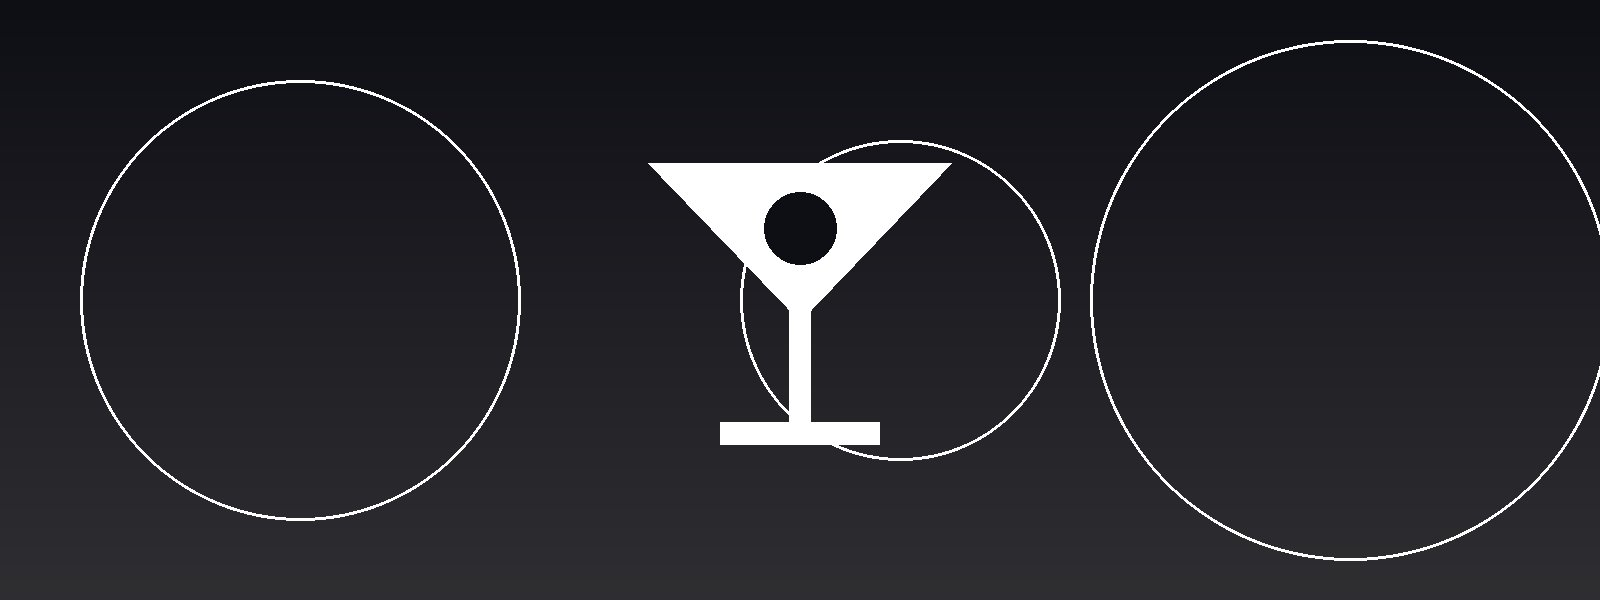
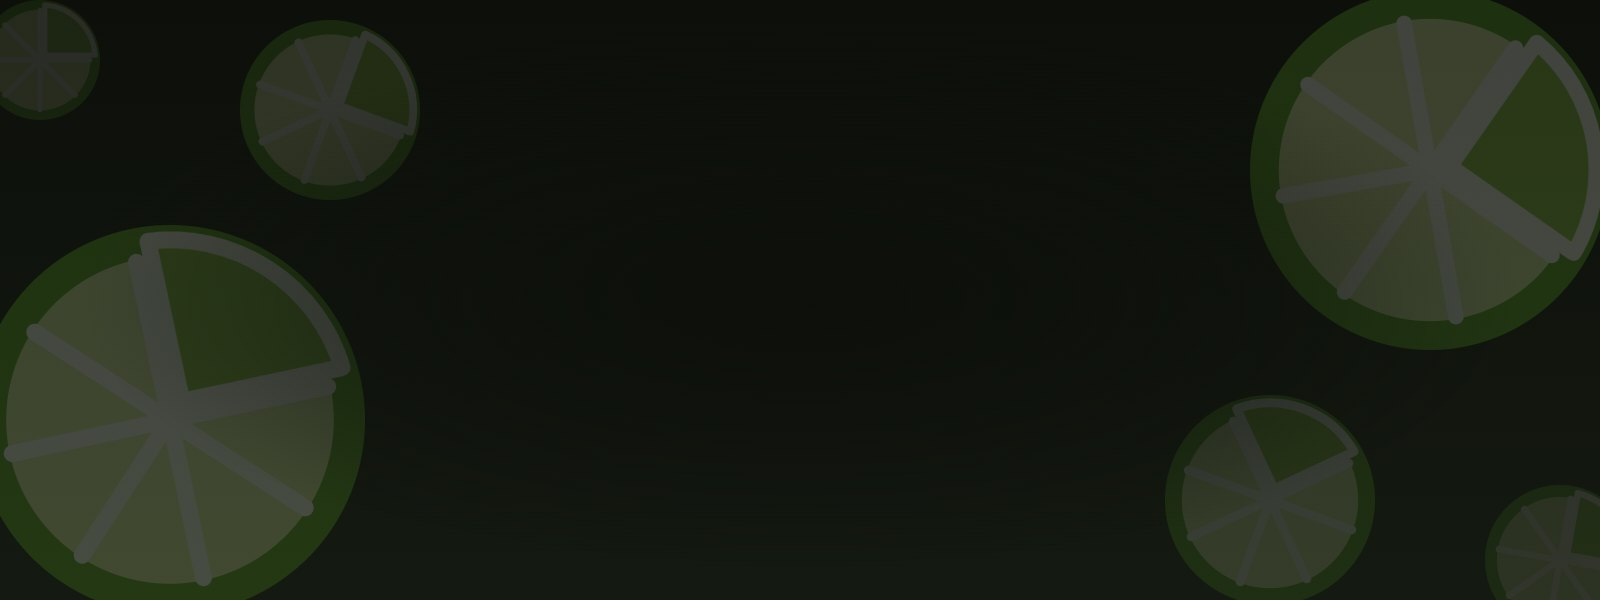
feat: il marchio LIME nel menu laterale, in alto il locale; testata della demo; caricamenti rifiutati in chiaro (REQ-UI-035, REQ-FLOTTA-033, REQ-SIC-006)
- Daniele, 17/11/2026: il marchio LIME sta in cima al menu laterale del
  gestionale, al posto di «Gestionale»; in alto nelle pagine tornano logo
  e nome del locale. Solo la demo e i locali Free hanno in alto il marchio
  LIME (marchioDelProdottoInAlto).
- La testata del menù della demo: il fondo di Lime con le fette di lime,
  al posto del bicchiere grigio. Tocca solo la demo.
- Un caricamento rifiutato dalle regole di Storage (il ruolo IAM appena
  dato impiega qualche minuto a valere) dice di riprovare, invece del
  codice di Firebase.

diff --git a/src/App.jsx b/src/App.jsx
@@ -91,6 +91,7 @@ import { subscribeUpdateAvailable } from './lib/appVersion.js'
 import { cosaFareAllAvvio, versioneVista, segnaVersioneVista } from './lib/novita.js'
 import { leggiAvvisi, avvisoAttivo } from './lib/preferenzeNotifiche.js'
 import { titoloPagina, nelGestionale } from './lib/sezioni.js'
+import { marchioDelProdottoInAlto } from './lib/limiti.js'
 import { subscribeSottosezioni } from './lib/sottosezioni.js'
 import Tendina from './components/Tendina.jsx'
 import { recordNotif } from './lib/notifyStore.js'
@@ -116,8 +117,8 @@ const BUILD = typeof __BUILD_ID__ !== 'undefined' ? __BUILD_ID__ : ''
 export default function App() {
   const location = useLocation()
   const onBackoffice = location.pathname.startsWith('/bar')
-  // Il gestionale intero (coda, conto, profilo di chi lavora): lì in alto il
-  // marchio del prodotto, che riporta alla coda (REQ-UI-035).
+  // Il gestionale intero (coda, conto, profilo di chi lavora): lì il logo in
+  // alto riporta alla coda.
   const gestionale = nelGestionale(location.pathname)
   const { user, profile } = useCustomer()
   const hasOrders = useHasOrders()
@@ -408,6 +409,7 @@ export default function App() {
   // l'effetto qui sotto riscrive il manifest, e non deve farlo a ogni
   // disegno.
   const venue = useMemo(() => venueDi(settings), [settings])
+  const marchioInAlto = marchioDelProdottoInAlto(settings)
   const social = useMemo(() => socialDelLocale(venue), [venue])
   // Il tema delle icone, ricalcolato solo quando cambia davvero: è il
   // valore del contesto che leggono centinaia di <Icona> (memo), e un
@@ -662,22 +664,18 @@ export default function App() {
             ←
           </button>
         )}
-        {/* Nel gestionale il marchio è quello del prodotto, LIME -
-            SmartOrders, e porta alla coda; le pagine dei clienti restano del
-            locale e portano alla sua home (REQ-UI-035). Il link ha il suo
-            nome perché sul telefono logo e nome si nascondono (REQ-UI-036,
-            WCAG 2.4.4). */}
+        {/* In alto il locale, col suo logo e il suo nome; nella demo e nei
+            locali Free il marchio del prodotto al suo posto (REQ-UI-035). Nel
+            gestionale porta alla coda, altrove alla home del locale. Il link
+            ha il suo nome perché sul telefono logo e nome si nascondono
+            (REQ-UI-036, WCAG 2.4.4). */}
         <Link
           to={gestionale ? '/bar' : '/'}
           className="brand"
-          aria-label={
-            gestionale
-              ? `${NOME_CORTO_PRODOTTO} ${QUALIFICA_PRODOTTO}, coda ordini`
-              : `${venue.venue_name}, pagina iniziale`
-          }
+          aria-label={`${marchioInAlto ? `${NOME_CORTO_PRODOTTO} ${QUALIFICA_PRODOTTO}` : venue.venue_name}, ${gestionale ? 'coda ordini' : 'pagina iniziale'}`}
           style={{ textDecoration: 'none', color: 'inherit' }}
         >
-          {gestionale ? (
+          {marchioInAlto ? (
             <MarchioLime />
           ) : (
             <>

diff --git a/src/lib/storage.js b/src/lib/storage.js
@@ -74,6 +74,23 @@ export const fotoDiFatturaLeggibile = (file) =>
 // Carica la foto di un drink su Firebase Storage e restituisce l'URL pubblico.
 // Le immagini sono salvate sotto `drinks/`: lette pubblicamente, scritte e
 // cancellate solo da banco e admin (storage.rules, BUG-160).
+// UN CARICAMENTO RIFIUTATO DALLE REGOLE SI DICE IN CHIARO (REQ-SIC-006).
+// Dal 17/11/2026 lo Storage legge la licenza, col ruolo IAM che la regia dà
+// a ogni locale: appena dato, il ruolo impiega qualche minuto a valere, e in
+// quei minuti il caricamento viene rifiutato. Il messaggio di Firebase
+// («User does not have permission… storage/unauthorized») non dice cosa
+// fare; questo sì, e la scheda resta aperta per riprovare.
+export const CARICAMENTO_NON_CONSENTITO =
+  'Caricamento non consentito in questo momento. Se il piano comprende le foto e gli allegati, il permesso può richiedere qualche minuto dopo un aggiornamento: riprovare più tardi.'
+async function carica(storageRef, file, metadati) {
+  try {
+    await uploadBytes(storageRef, file, metadati)
+  } catch (e) {
+    if (e?.code === 'storage/unauthorized') throw new Error(CARICAMENTO_NON_CONSENTITO)
+    throw e
+  }
+}
+
 export async function uploadDrinkImage(file) {
   if (senzaStorage()) throw new Error(MESSAGGI_PIANO.foto)
   const processed = await downscaleImage(file)
@@ -82,7 +99,7 @@ export async function uploadDrinkImage(file) {
   const path = `drinks/${Date.now()}-${Math.round(Math.random() * 1e6)}.${ext}`
 
   const storageRef = ref(storage, path)
-  await uploadBytes(storageRef, processed, { contentType: processed.type || file.type || 'image/jpeg' })
+  await carica(storageRef, processed, { contentType: processed.type || file.type || 'image/jpeg' })
   return getDownloadURL(storageRef)
 }
 
@@ -130,7 +147,7 @@ export async function caricaAllegatoFattura(idFattura, file) {
   const contentType = pronto.type || file.type
   const path = percorsoAllegato(idFattura, contentType)
   const storageRef = ref(storage, path)
-  await uploadBytes(storageRef, pronto, { contentType })
+  await carica(storageRef, pronto, { contentType })
   return {
     url: await getDownloadURL(storageRef),
     // IL PERCORSO SI SCRIVE ACCANTO ALL'URL, ed è quello che serve per

diff --git a/tests/unit/allegatoInArchivio.test.js b/tests/unit/allegatoInArchivio.test.js
@@ -28,6 +28,7 @@ const stato = {
   cancellati: [],
   cancellaFallisce: false,
   caricamentoFallisce: false,
+  caricamentoRifiutato: false,
   canvas: null,
 }
 
@@ -87,6 +88,7 @@ vi.mock('firebase/storage', () => ({
   ref: (_s, path) => ({ path }),
   uploadBytes: vi.fn(async (r, dati, meta) => {
     if (stato.caricamentoFallisce) throw new Error('rete assente')
+    if (stato.caricamentoRifiutato) throw Object.assign(new Error('Firebase Storage: User does not have permission'), { code: 'storage/unauthorized' })
     stato.caricati.push({ path: r.path, size: dati?.size, contentType: meta?.contentType })
   }),
   getDownloadURL: vi.fn(async (r) => `https://storage/${r.path}?token=abc`),
@@ -148,6 +150,7 @@ beforeEach(() => {
   stato.cancellati = []
   stato.cancellaFallisce = false
   stato.caricamentoFallisce = false
+  stato.caricamentoRifiutato = false
   stato.canvas = null
   preparaBrowser()
 })
@@ -266,5 +269,24 @@ describe('chi cancella la fattura porta via anche l’allegato', () => {
   it('una fattura senza allegato si cancella come sempre', async () => {
     await subito(api.deleteSupplierInvoice('inv-1'))
     expect(stato.cancellati).toEqual([])
+  })
+})
+
+// LO STORAGE CHE RIFIUTA SI DICE IN CHIARO (REQ-SIC-006). Le regole di
+// Storage leggono la licenza; dove il ruolo IAM è appena stato dato, per
+// qualche minuto il caricamento viene rifiutato (la regia, 17/11/2026). Il
+// messaggio di Firebase non dice cosa fare: quello dell'app sì.
+describe('un caricamento rifiutato dalle regole', () => {
+  it('l’allegato della fattura dice cosa fare, non il codice di Firebase', async () => {
+    stato.caricamentoRifiutato = true
+    const errore = await subito(api.allegaDocumentoAFattura('inv-1', PDF)).catch((e) => e)
+    expect(errore.message).toMatch(/riprovare più tardi/)
+    expect(errore.message).not.toMatch(/storage\/unauthorized|permission/)
+  })
+
+  it('anche la foto di un prodotto', async () => {
+    const { uploadDrinkImage, CARICAMENTO_NON_CONSENTITO } = await import('../../src/lib/storage.js')
+    stato.caricamentoRifiutato = true
+    await expect(subito(uploadDrinkImage({ type: 'image/png', size: 1e5, name: 'foto.png' }))).rejects.toThrow(CARICAMENTO_NON_CONSENTITO)
   })
 })

diff --git a/tests/component/AppHeader.test.jsx b/tests/component/AppHeader.test.jsx
@@ -157,9 +157,12 @@ describe('la barra in cima è la stessa su tutte le schermate', () => {
     // nome si trovava due volte, ogni tanto: una prova ballerina è peggio di
     // una prova che manca, perché la si impara a ignorare.
     await waitFor(() => expect(document.querySelector('.topbar-io')).not.toBeNull())
-    // Il profilo di chi lavora è gestionale: in alto il marchio del
-    // prodotto, LIME - SmartOrders, non il nome del locale (REQ-UI-035).
-    expect(document.querySelector('.topbar .marchio-lime')).toHaveTextContent('SmartOrders')
+    // In alto il locale, col suo nome; il marchio del prodotto, LIME -
+    // SmartOrders, sta nel menu laterale del gestionale, al posto di
+    // «Gestionale» (REQ-UI-035, Daniele 17/11/2026).
+    expect(document.querySelector('.topbar .brand')).toHaveTextContent('La Tana del Coniglio')
+    expect(document.querySelector('.topbar .marchio-lime')).toBeNull()
+    expect(document.querySelector('nav.bar-sidebar .brand-mini .marchio-lime')).toHaveTextContent('SmartOrders')
     // A destra una cosa sola: chi è collegato, che apre il suo profilo.
     const io = document.querySelector('.topbar-io')
     expect(io).toHaveAttribute('href', '/profilo-staff')
@@ -167,6 +170,17 @@ describe('la barra in cima è la stessa su tutte le schermate', () => {
     // Le vecchie varianti sono voci del menu laterale, non della barra.
     expect(screen.queryByText(/Ciao, Capo Bar/)).toBeNull()
     expect(screen.queryByText('Torna al servizio')).toBeNull()
+  })
+
+  // REQ-UI-035: solo la demo e i locali Free hanno in alto il marchio del
+  // prodotto al posto del locale.
+  it('un locale Free ha in alto il marchio LIME al posto del suo', async () => {
+    ruoloClaim = 'admin'
+    inPiu.impostazioni = { licenza: { ...CON_LICENZA.licenza, piano: 'free' } }
+    apri('/profilo-staff')
+    await waitFor(() => expect(document.querySelector('.topbar-io')).not.toBeNull())
+    expect(document.querySelector('.topbar .brand .marchio-lime')).toHaveTextContent('SmartOrders')
+    expect(document.querySelector('.topbar .brand')).toHaveAttribute('aria-label', 'Lime SmartOrders, coda ordini')
   })
 
   it('la stessa barra nel menù usato per gli ordini manuali', async () => {

diff --git a/src/index.css b/src/index.css
@@ -265,26 +265,27 @@ body.schermo-intero {
    piccolo, sembrava tagliato. Ora si mostra INTERO (contain), senza
    maschera e senza anello: il tondo ce l'ha già suo. */
 
-/* IL MARCHIO DEL PRODOTTO, nel gestionale (REQ-UI-035): come nella barra
-   della regia — il logo, «Lime» nei titoli e la qualifica piccola in
-   maiuscolo, nel colore attenuato del tema. Sotto `.brand`, perché
-   `.brand span` (più specifico di una classe sola) le schiacciava tutte. */
-.brand .marchio-lime {
+/* IL MARCHIO DEL PRODOTTO (REQ-UI-035): nel menu laterale del gestionale e,
+   per la demo e i Free, in alto. Come nella barra della regia — il logo,
+   «Lime» nei titoli e la qualifica piccola in maiuscolo, nel colore
+   attenuato del tema. Sotto `.brand`/`.brand-mini`, perché `.brand span`
+   (più specifico di una classe sola) le schiacciava tutte. */
+:is(.brand, .brand-mini) .marchio-lime {
   display: inline-flex;
   align-items: center;
   gap: 10px;
   min-width: 0;
 }
-.brand .marchio-lime-logo {
+:is(.brand, .brand-mini) .marchio-lime-logo {
   flex: none;
   width: 1.8rem;
   height: 1.8rem;
 }
-.brand .marchio-lime-nome {
+:is(.brand, .brand-mini) .marchio-lime-nome {
   font-size: 1.1rem;
   letter-spacing: -0.01em;
 }
-.brand .marchio-lime-qualifica {
+:is(.brand, .brand-mini) .marchio-lime-qualifica {
   font-family: var(--testo, inherit);
   font-weight: 500;
   font-size: 0.6em;

diff --git a/src/components/StaffDrawer.jsx b/src/components/StaffDrawer.jsx
@@ -28,6 +28,7 @@ import { toastSuccess } from '../lib/toast.js'
 import { vociPerRuolo } from '../lib/sezioni.js'
 import { menuDigitaleAttivo } from '../lib/licenza.js'
 import Icona from './Icona.jsx'
+import MarchioLime from './MarchioLime.jsx'
 import { subscribeSottosezioni } from '../lib/sottosezioni.js'
 
 // Menu laterale dello staff: usato nel gestionale (onSelect cambia tab)
@@ -255,9 +256,11 @@ export default function StaffDrawer({ role, active = null, onSelect = null, flot
         // «em», quindi basta questa.
         style={dock ? { width: largh, fontSize: `${(0.85 * largh) / MENU_DEFAULT}rem` } : undefined}
       >
+        {/* IL MARCHIO DEL PRODOTTO STA QUI (REQ-UI-035, Daniele 17/11/2026:
+            «dove sta scritto Gestionale in alto nel menu»): le pagine, in
+            alto, tengono il logo e il nome del locale. */}
         <div className="brand-mini">
-          <img src={`${import.meta.env.BASE_URL}logo.png`} alt="" />
-          Gestionale
+          <MarchioLime />
         </div>
         {/* IL SECONDO LIVELLO STA QUI DENTRO, sotto la pagina in cui ci si
             trova. È il modo in cui si fa di solito con un menu a scomparsa:

diff --git a/src/lib/limiti.js b/src/lib/limiti.js
@@ -64,6 +64,12 @@ const BUILD_LEGGERA = import.meta.env?.VITE_PROFILO === 'leggero'
 // gestione delle utenze) come per un locale Free.
 export const profiloLeggero = (stato) => BUILD_LEGGERA || Boolean(__DEMO__) || pianoFree(stato)
 
+// IN ALTO IL MARCHIO DEL PRODOTTO, NON IL LOCALE (REQ-UI-035): solo la demo
+// e i locali Free (Daniele, 17/11/2026: «Solo demo avrà quelle scritte e il
+// free al posto del nome del locale e del logo del locale»). Chi paga ha in
+// alto il suo logo e il suo nome; il marchio LIME sta nel menu laterale.
+export const marchioDelProdottoInAlto = (stato) => Boolean(__DEMO__) || pianoFree(stato)
+
 // La stessa domanda per chi non ha le impostazioni in mano (i wrapper delle
 // Functions e di Storage): l'ultima verità nota, ricordata da
 // subscribeSettings. Al primo avvio di un dispositivo nuovo, prima che le

diff --git a/docs/system_specifications.md b/docs/system_specifications.md
@@ -3264,13 +3264,15 @@ Daniele, 17/11/2026, alla domanda della regia «Le regole di Storage leggono la 
 
 IL PREZZO, INFRASTRUTTURA: le regole che leggono Firestore dallo Storage vogliono il ruolo `roles/firebaserules.firestoreServiceAgent` al service agent dello Storage del progetto (service-<numero>@gcp-sa-firebasestorage.iam.gserviceaccount.com). Senza, la lettura fallisce e nessuno carica più foto. Va dato prima del deploy su tana-drink-test, tana-drink (col via libera di Daniele) e nei locali della flotta (il Terraform della regia).
 
-FATTO SULLA TANA (17/11/2026, comando lanciato su richiesta di Daniele): il ruolo c'è su tana-drink-test e su tana-drink, riletto dalla policy. Per la flotta lo fa la regia. L'ORDINE DEI RILASCI (dal revisore, 17/11/2026): il deploy non interattivo di firebase-tools salta la concessione del ruolo senza dirlo, e la regia lo dà nel Terraform (REQ-FLOTTA-124) solo su develop. Un tag di produzione con queste regole non deve arrivare a un locale della flotta prima che la REQ-FLOTTA-124 sia su main della regia e applicata ai locali esistenti. scripts/setup-firebase-env.sh lo concede agli ambienti nuovi. Le funzioni sulla licenza delle due regole sono le stesse, e una prova lo controlla.
+FATTO SULLA TANA (17/11/2026, comando lanciato su richiesta di Daniele): il ruolo c'è su tana-drink-test e su tana-drink, riletto dalla policy. Per la flotta lo fa la regia.
+
+UN CARICAMENTO RIFIUTATO SI DICE IN CHIARO (la regia, 17/11/2026: il ruolo appena dato impiega qualche minuto a valere): lib/storage.js traduce `storage/unauthorized` in una frase che dice di riprovare, e la scheda resta aperta. L'ORDINE DEI RILASCI (dal revisore, 17/11/2026): il deploy non interattivo di firebase-tools salta la concessione del ruolo senza dirlo, e la regia lo dà nel Terraform (REQ-FLOTTA-124) solo su develop. Un tag di produzione con queste regole non deve arrivare a un locale della flotta prima che la REQ-FLOTTA-124 sia su main della regia e applicata ai locali esistenti. scripts/setup-firebase-env.sh lo concede agli ambienti nuovi. Le funzioni sulla licenza delle due regole sono le stesse, e una prova lo controlla.
 
 LE PROVE IN CI (17/11/2026, su richiesta di Daniele): il job delle regole accende anche lo Storage (`--only firestore,storage` in .github/workflows/test.yml), e le prove di storage.rules girano.
 
 FATTO (1.10.53-beta): storage.rules legge la licenza (licenzaValida, alFree, modulo, fotoConsentite); tests/regole/storage.test.js la prova con gli emulatori di Storage e Firestore insieme, nel progetto degli emulatori.
 
-**Dove**: `storage.rules, tests/regole/storage.test.js, .github/workflows/test.yml (job delle regole), IAM dei progetti (service agent dello Storage)` · **Serve**: [UR-015](#ur-015--il-piano-del-locale-decide-cosa-si-usa-e-chi-ha-tutto-non-se-ne-accorge) · **Lo dimostrano**: `tests/regole/storage.test.js`, `tests/unit/regoleStorageLicenza.test.js`
+**Dove**: `storage.rules, tests/regole/storage.test.js, .github/workflows/test.yml (job delle regole), IAM dei progetti (service agent dello Storage)` · **Serve**: [UR-015](#ur-015--il-piano-del-locale-decide-cosa-si-usa-e-chi-ha-tutto-non-se-ne-accorge) · **Lo dimostrano**: `tests/regole/storage.test.js`, `tests/unit/regoleStorageLicenza.test.js`, `tests/unit/allegatoInArchivio.test.js`
 
 ### Si lavora anche senza rete
 
@@ -4523,6 +4525,8 @@ CRITERIO: la build della demo si chiama «Bancone 21» nel titolo della pagina e
 COME È FATTO (17/11/2026): clienti/demo/venue.json (nome, nome corto, «al Bancone 21», la descrizione del manifest).
 
 IL LOGO (Daniele, 17/11/2026: «c'è già il logo di Lime SmartOrders per questa cosa. Al posto del bicchiere»): il bicchiere neutro lascia il posto alla fetta di lime della regia (drink-regia public/favicon.svg). favicon.svg è quel disegno; logo.png, icon-192/512 trasparenti; apple-touch-icon e icon-maskable-512 sul fondo di Lime scuro (#0c0f0a), la maskable col logo al 60% per il margine di Android. Se il logo della regia cambia, questi file si rifanno da lì.
+
+LA TESTATA DEL MENÙ (Daniele, 17/11/2026, «Ok» a dare alla demo una testata sua): dietro il nome del locale restava il bicchiere grigio di clienti/demo/public/cocktail-hero.jpg. Ora è il fondo scuro di Lime con fette di lime attenuate ai lati, il centro libero per logo e nome. Tocca solo la demo: ogni cliente della build ha la sua testata. Anche questa si rifà se il logo della regia cambia.
 
 **Dove**: `clienti/demo/venue.json` · **Serve**: [UR-014](#ur-014--la-demo-che-si-mostra-a-un-locale-nuovo-non-espone-niente-di-un-locale-vero) · **Lo dimostrano**: `tests/unit/clienteBuild.test.js`
 

diff --git a/DESIGN.md b/DESIGN.md
@@ -718,13 +718,14 @@ dei clienti stanno in cima, in un riquadro richiudibile col filo sinistro in
   restava appesa da sola sotto il resto.
 - La topbar è sticky, traslucida sul tema (`color-mix` su `--bg-2`),
   e rispetta le safe-area dei tablet.
-- **In alto, nel gestionale, il marchio del prodotto**: il logo della
-  regia (la fetta di lime), «Lime» nei titoli e «SmartOrders» piccolo in
-  maiuscolo in `--muted`, come nella barra della regia (REQ-UI-035,
-  `MarchioLime.jsx`). Il gestionale è la coda e le sezioni (`/bar`), il
-  conto (`/pos`) e il profilo di chi lavora (`nelGestionale` in
-  `lib/prodotto.js`). Le pagine dei clienti tengono il logo e il nome del
-  locale, anche quando le apre il personale. Sul telefono resta il logo.
+- **Il marchio del prodotto sta nel menu laterale del gestionale**, in
+  cima, al posto di «Gestionale»: il logo della regia (la fetta di lime),
+  «Lime» nei titoli e «SmartOrders» piccolo in maiuscolo in `--muted`,
+  come nella barra della regia (REQ-UI-035, `MarchioLime.jsx`). **In alto
+  nelle pagine c'è il locale**, col suo logo e il suo nome; solo la demo e
+  i locali Free (`marchioDelProdottoInAlto` in `lib/limiti.js`) hanno lì
+  il marchio LIME. Nel gestionale (`nelGestionale` in `lib/sezioni.js`) il
+  logo in alto porta alla coda, altrove alla home del locale.
 
 ## Profondità
 

diff --git a/CHANGELOG.md b/CHANGELOG.md
@@ -2,6 +2,25 @@
 
 ## 1.10.54-beta — in lavorazione
 
+### Aspetto
+
+- **Il marchio LIME - SmartOrders sta nel menu laterale del gestionale**, in
+  cima, al posto della scritta «Gestionale». In alto nelle pagine tornano
+  il logo e il nome del locale; solo la demo e i locali col piano Free
+  hanno lì il marchio LIME (REQ-UI-035).
+
+### Demo
+
+- Nel menù della demo, dietro il nome del locale, la testata ha il fondo
+  di Lime con le fette di lime, al posto del bicchiere grigio
+  (REQ-FLOTTA-033).
+
+### Sicurezza e costi
+
+- Se lo Storage rifiuta una foto o un allegato, l'app lo dice in chiaro e
+  la scheda resta aperta per riprovare: succede per qualche minuto dopo un
+  aggiornamento che cambia i permessi (REQ-SIC-006).
+
 ## 1.10.53-beta — 17/11/2026 (test)
 
 ### Aspetto
